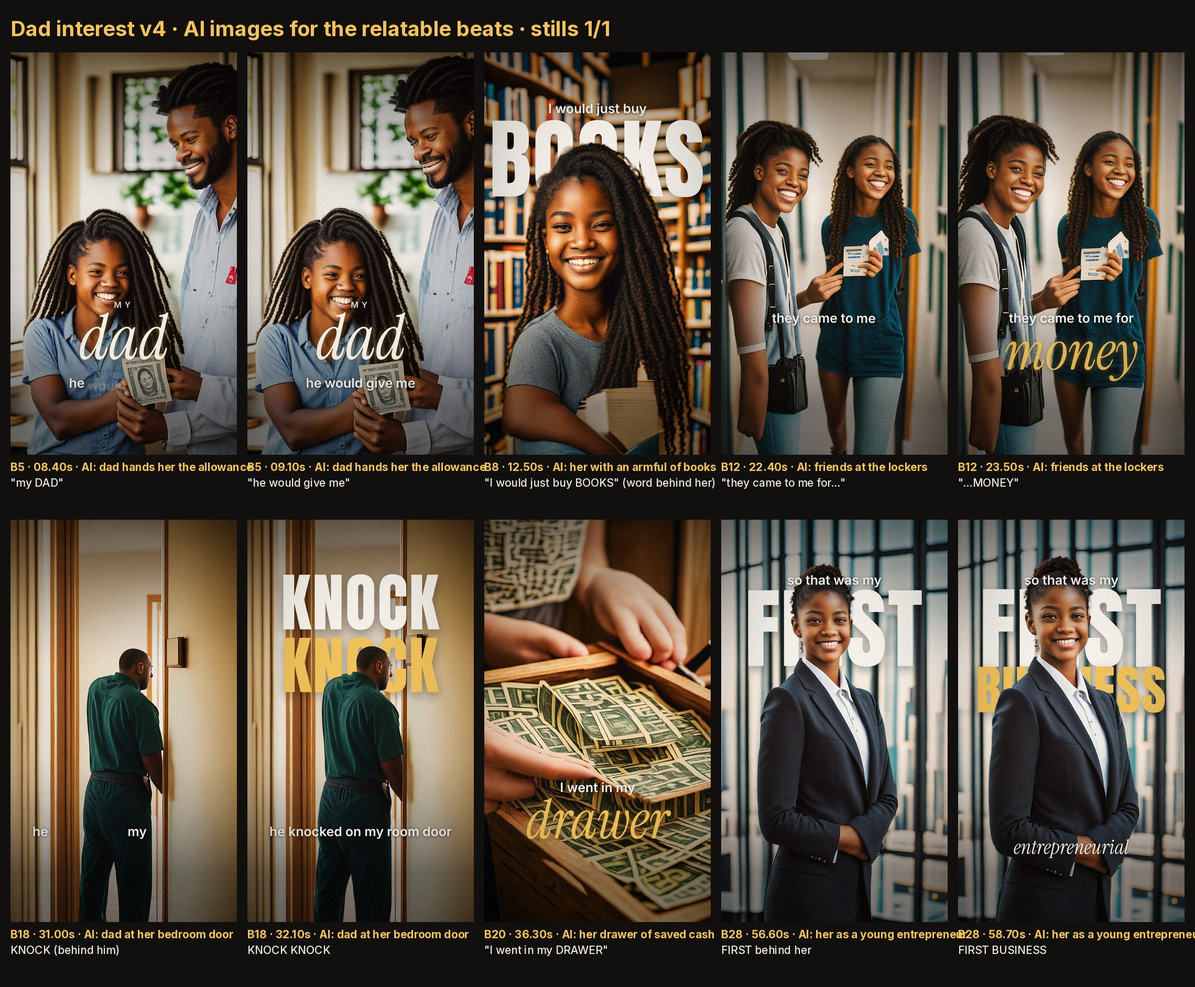
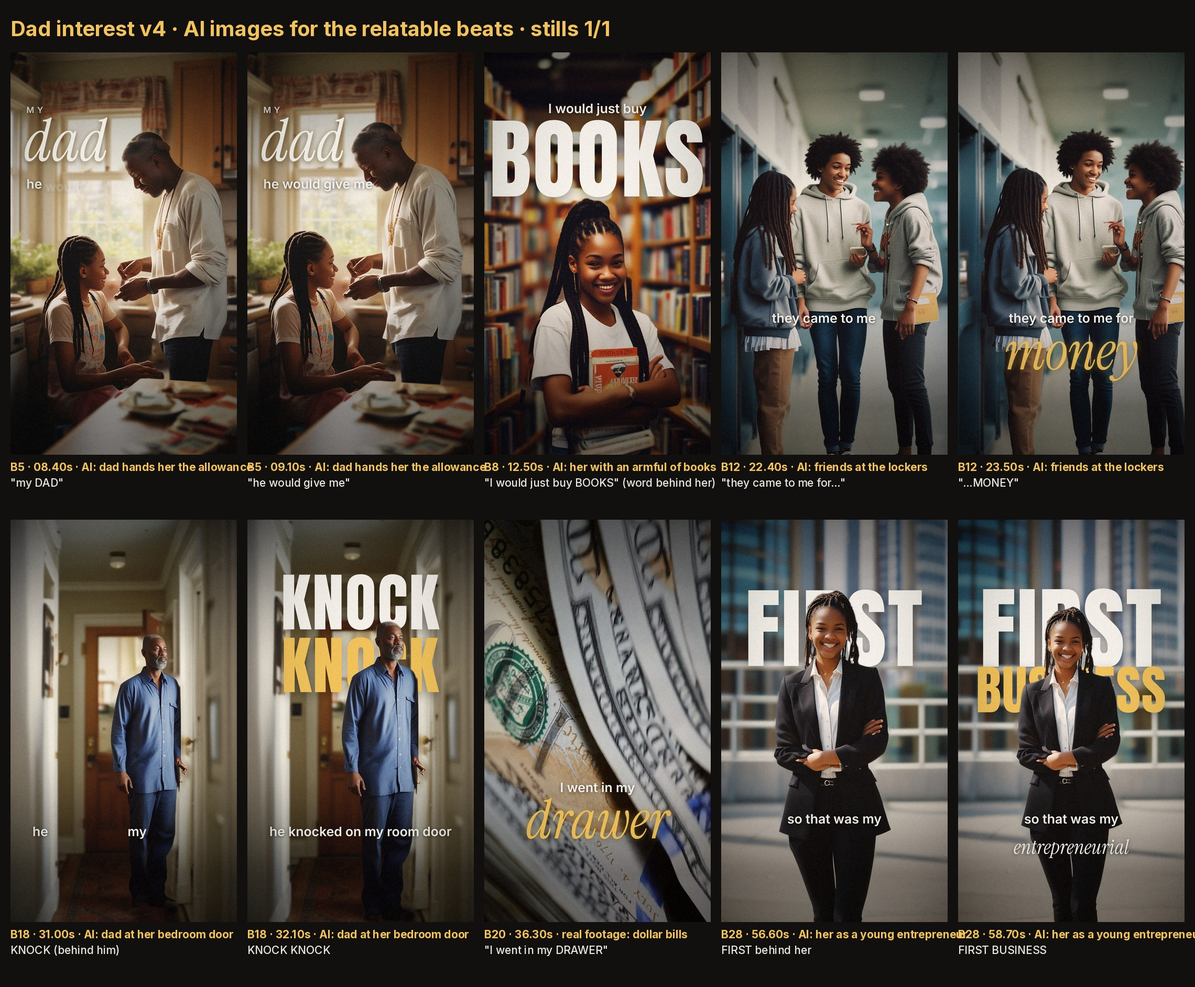
Dad-interest v4: AI images regenerated with SDXL + Lightning (film look), drawer back to real footage
Claude-Session: https://claude.ai/code/session_01Bj9t4fKydWJK4WnbPdQGjW

diff --git a/edits/dad-interest/v4/tools/gen_ai_xl.py b/edits/dad-interest/v4/tools/gen_ai_xl.py
@@ -1,0 +1,34 @@
+"""AI stills, v2: SDXL base 1.0 (CreativeML Open RAIL++-M) + SDXL-Lightning 4-step UNet (ByteDance, OpenRAIL++), bf16 on CPU (AMX).
+Sharper and far more photographic than the Vega pass. Money close-ups are NOT generated (AI bills look fake; real footage is used).
+    python3 gen_ai_xl.py [name ...]   -> ../src/ai/<name>_xl<seed>.png (768x1344)
+"""
+import os, sys, time, torch
+from diffusers import StableDiffusionXLPipeline, UNet2DConditionModel, EulerDiscreteScheduler
+from huggingface_hub import hf_hub_download
+from safetensors.torch import load_file
+HERE = os.path.dirname(os.path.abspath(__file__)); OUT = os.path.join(HERE, '../src/ai')
+FILM = 'candid documentary photograph, shot on Kodak Portra 400, 35mm lens, natural skin texture, soft natural light, realistic, highly detailed'
+JOBS = {
+    'dad_allowance': 'a Jamaican-American father in his 40s with a warm smile hands a twenty dollar bill to his happy 15 year old daughter with long box braids in their small New York kitchen, early 2000s home, morning window light',
+    'books':         'a happy 15 year old Black girl with long box braids hugging a stack of hardcover books to her chest in a bookstore aisle, warm bookstore lights, shelves full of books behind her',
+    'friends_ask':   'at the high school lockers, a teenage boy in a grey hoodie and a teenage girl with a short curly afro both hold out their open hands toward their friend, a smiling Black girl with long box braids who holds her wallet, school hallway, daylight',
+    'dad_door':      'a middle-aged Black father with a short grey beard wearing a navy blue work shirt and jeans stands in a home hallway and knocks with his knuckles on a closed white bedroom door, early morning, warm light, family photos on the wall',
+    'teen_boss':     'editorial portrait of a confident 15 year old Black girl with box braids in a tailored black blazer, arms crossed, smiling, modern office with big windows and a city view',
+}
+NEG = 'cartoon, illustration, painting, 3d render, cgi, plastic skin, deformed hands, extra fingers, bad anatomy, text, watermark, logo'
+want = sys.argv[1:] or list(JOBS)
+torch.set_num_threads(4)
+base = 'stabilityai/stable-diffusion-xl-base-1.0'
+unet = UNet2DConditionModel.from_config(base, subfolder='unet')
+unet.load_state_dict(load_file(hf_hub_download('ByteDance/SDXL-Lightning', 'sdxl_lightning_4step_unet.safetensors'), device='cpu'))
+unet = unet.to(torch.bfloat16)
+pipe = StableDiffusionXLPipeline.from_pretrained(base, unet=unet, torch_dtype=torch.bfloat16, variant='fp16', use_safetensors=True)
+pipe.vae.config.force_upcast = False      # bf16 VAE is stable (fp16 is not)
+pipe.scheduler = EulerDiscreteScheduler.from_config(pipe.scheduler.config, timestep_spacing='trailing')
+os.makedirs(OUT, exist_ok=True)
+for name in want:
+    for seed in ([int(x) for x in os.environ['SEEDS'].split(',')] if os.environ.get('SEEDS') else (7, 42)):
+        t0 = time.time()
+        img = pipe(prompt=f'{JOBS[name]}, {FILM}', negative_prompt=NEG, num_inference_steps=4, guidance_scale=0, width=768, height=1344,
+                   generator=torch.Generator().manual_seed(seed)).images[0]
+        img.save(os.path.join(OUT, f'{name}_xl{seed}.png')); print(name, seed, round(time.time() - t0), 's', flush=True)

diff --git a/edits/dad-interest/v4/build.py b/edits/dad-interest/v4/build.py
@@ -46,7 +46,7 @@ BASE = [
     (29.55, 30.50, 'aroll', [(29.55, 1.00), (30.50, 1.03)]),                               # I remember my dad
     (30.50, 32.27, 'ai', ('dad_door', 'o_knock', [(30.50, 1.00), (32.27, 1.07)], True)),     # he KNOCKED on my room DOOR (AI: dad at her door, KNOCK behind him)
     (32.27, 34.49, 'roto', ('r20b', [(32.27, 1.00), (34.49, 1.05)])),                      # he said Latoya, I need [$20 behind her]
-    (34.49, 36.78, 'ai', ('drawer', 'o_stash', [(34.49, 1.00), (36.78, 1.07)], False)),      # I went in my DRAWER (AI: her drawer of saved cash)
+    (34.49, 36.78, 'broll', ('stash', 'o_stash', [(34.49, 1.00), (36.78, 1.06)], 'warm')),   # I went in my DRAWER (real dollar bills: AI money looks fake)
     (36.78, 38.52, 'broll', ('count', 'o_count', [(36.78, 1.02), (38.52, 1.08)], 'warm')),   # and I started COUNTING all my money
     (38.52, 40.65, 'aroll', [(38.52, 1.45), (40.65, 1.50)]),                               # he said WAIT, you still have all those MONEY?
     (40.65, 41.81, 'aroll', [(40.65, 1.12), (41.81, 1.15)]),                               # so I gave him $20
